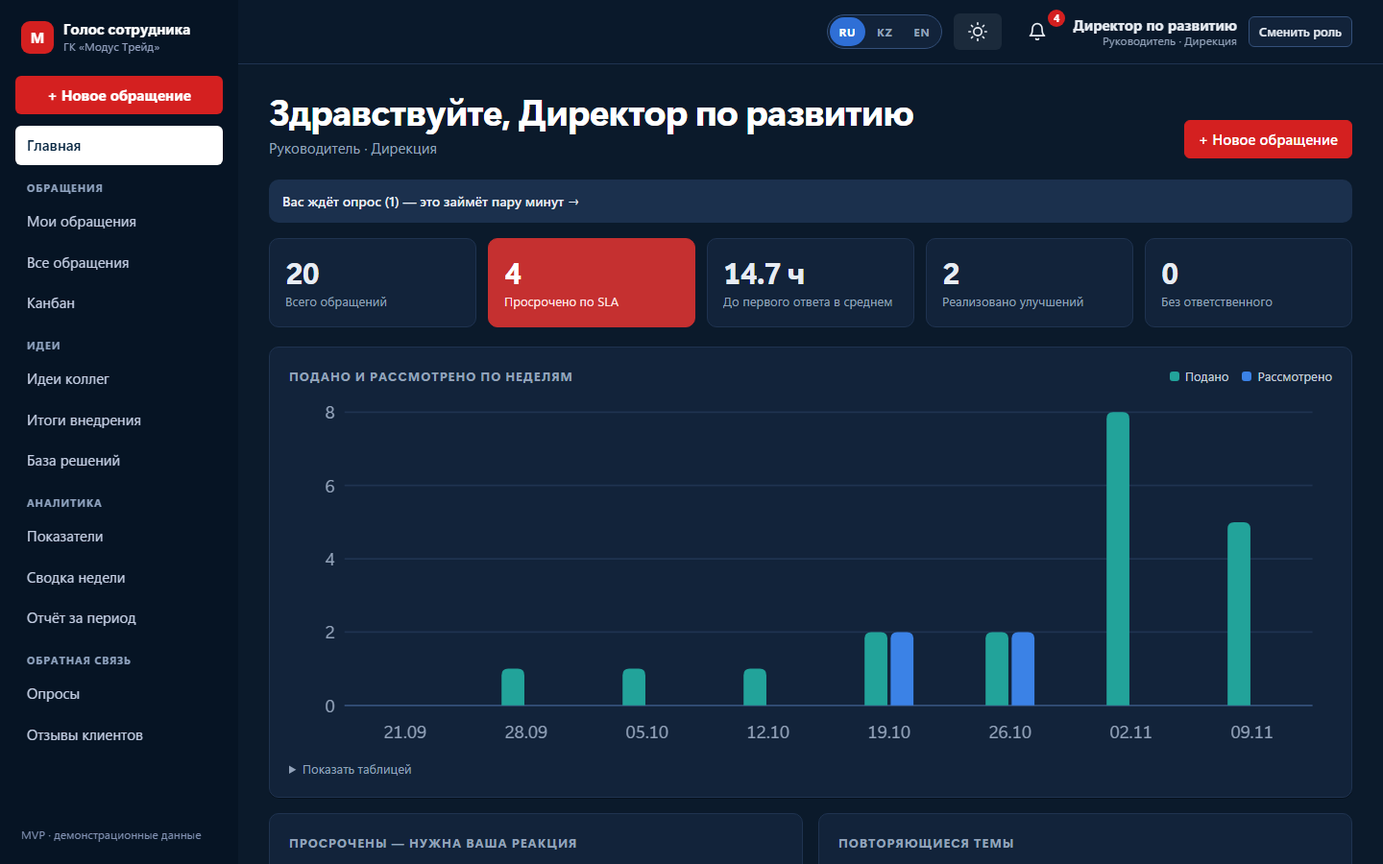
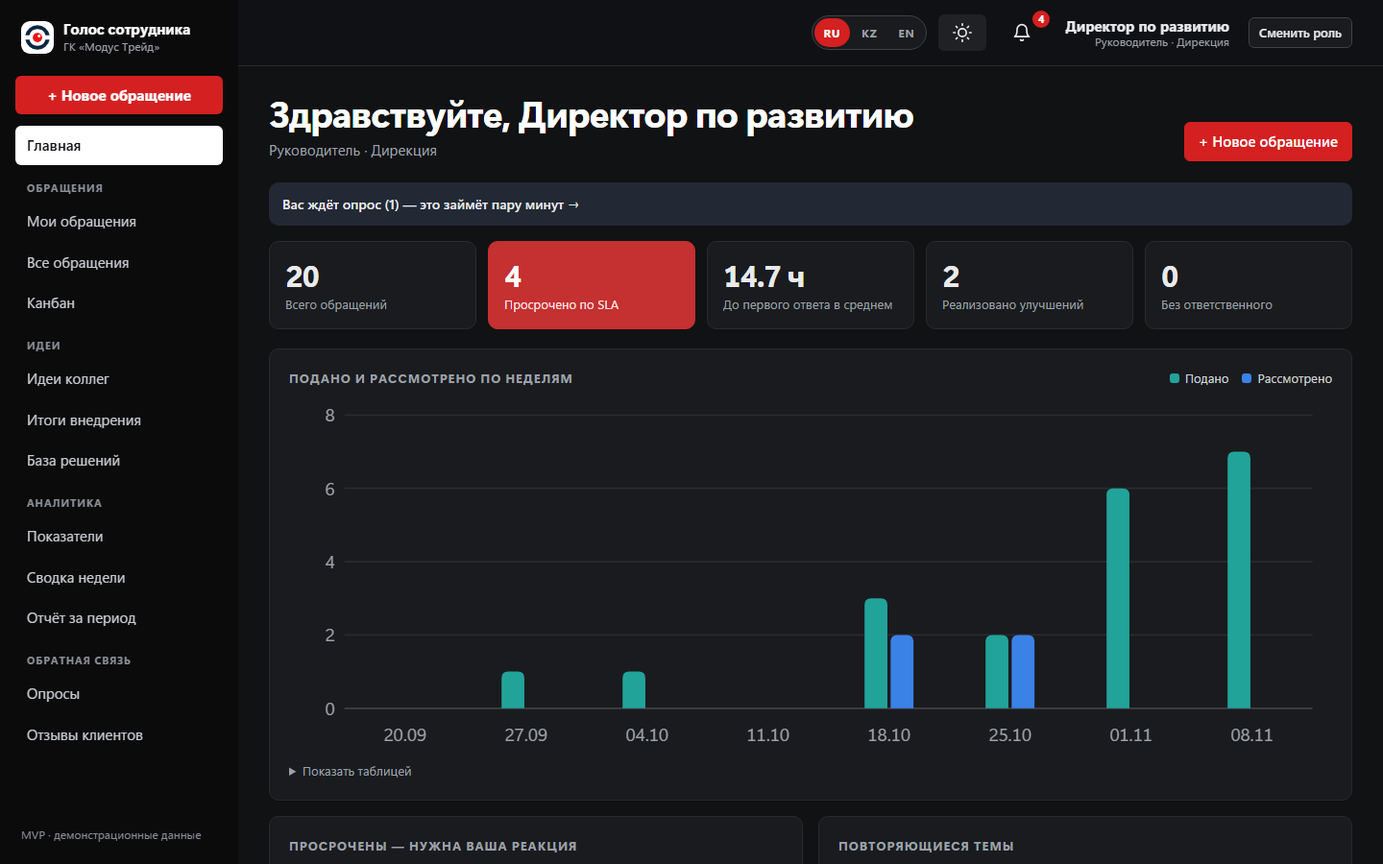
docs: README и скриншоты под итоговую версию
Все 30 снимков пересозданы: логотип, графитовая тёмная тема с красным акцентом; добавлены экран входа,
мой профиль, сроки и часовой пояс, хранение данных уволенных, тёмная тема входа и канбана.
Снимки отдельных блоков больше не перекрывает закреплённая шапка.
Текст README: вход через Битрикс24, раздел «Мой профиль», безопасность, нагрузочная проверка,
резервные копии, фирменный стиль, актуальные названия разделов, структура модулей.
scripts/make-icons.mjs рисует иконки из знака логотипа, а не прежний синий значок.

diff --git a/e2e/screenshots.spec.js b/e2e/screenshots.spec.js
@@ -2,6 +2,12 @@ import { test } from '@playwright/test';
 import { loginAs, openTicket } from './helpers.js';
 
 const shot = (page, name) => page.screenshot({ path: `docs/screenshots/${name}.png` });
+// Снимок отдельного блока: закреплённая шапка открепляется, иначе при прокрутке к блоку она закрывает его верх.
+async function elShot(locator, name) {
+  // Через свойство элемента: встроенный <style> запрещён политикой CSP.
+  await locator.page().evaluate(() => { const bar = document.querySelector('.topbar'); if (bar) bar.style.position = 'static'; });
+  await locator.screenshot({ path: `docs/screenshots/${name}.png` });
+}
 
 test('снимки экранов для README', async ({ page }) => {
   test.setTimeout(180_000);
@@ -66,13 +72,16 @@ test('снимки экранов для README', async ({ page }) => {
   await page.getByRole('button', { name: 'Переключить светлую и тёмную тему' }).click();
   await page.locator('figure.chart svg').waitFor();
   await shot(page, '09-home-dark');
+  await page.goto('/#/kanban');
+  await page.locator('.kb-card').first().waitFor();
+  await shot(page, '26-kanban-dark');
   await page.goto('/#/analytics');
   await page.locator('.kpi').first().waitFor();
   await shot(page, '10-analytics-dark');
   await page.getByRole('button', { name: 'Переключить светлую и тёмную тему' }).click();
 
   // Карта повторяющихся проблем и база решений (доработки по ТЗ 1.3 и 2.7).
-  await page.locator('.heatmap-card').screenshot({ path: 'docs/screenshots/18-problem-map.png' });
+  await elShot(page.locator('.heatmap-card'), '18-problem-map');
   await loginAs(page, 'Сотрудник офиса');
   await page.goto('/#/solutions');
   await page.locator('.solution').first().waitFor();
@@ -84,7 +93,7 @@ test('снимки экранов для README', async ({ page }) => {
   const integrations = page.locator('section.card', { hasText: 'Интеграции с Битрикс24 и 1С УТ' });
   await integrations.getByRole('button', { name: 'Загрузить оргструктуру' }).click();
   await integrations.getByRole('region', { name: 'Изменения из Битрикс24' }).waitFor();
-  await integrations.screenshot({ path: 'docs/screenshots/19-integrations.png' });
+  await elShot(integrations, '19-integrations');
   await integrations.getByRole('button', { name: 'Применить изменения' }).click();
   await integrations.getByRole('button', { name: 'Загрузить контрагентов' }).click();
   await page.locator('.toast-success').last().waitFor();
@@ -102,7 +111,7 @@ test('снимки экранов для README', async ({ page }) => {
   await page.locator('.more-actions').evaluate((d) => { d.open = true; });
   const taskPanel = page.locator('.more-actions .stack', { hasText: 'Статус в Битрикс24' }).last();
   await taskPanel.scrollIntoViewIfNeeded();
-  await page.locator('.more-actions').screenshot({ path: 'docs/screenshots/20-b24-task.png' });
+  await elShot(page.locator('.more-actions'), '20-b24-task');
 
   // Вход через Битрикс24: страница входа демо-портала.
   await page.evaluate(() => fetch('/api/session', { method: 'DELETE' }));
@@ -124,7 +133,7 @@ test('снимки экранов для README', async ({ page }) => {
   await integrations.getByRole('button', { name: 'Загрузить оргструктуру' }).click();
   const manual = integrations.locator('.sync-group', { hasText: 'Не связаны автоматически' });
   await manual.waitFor();
-  await manual.screenshot({ path: 'docs/screenshots/23-manual-link.png' });
+  await elShot(manual, '23-manual-link');
 
   // Производственный календарь на год из источника.
   const calendar = page.locator('section.card').filter({ has: page.getByRole('heading', { name: 'Производственный календарь', exact: true }) });
@@ -132,10 +141,31 @@ test('снимки экранов для README', async ({ page }) => {
   await calendar.getByRole('button', { name: 'Загрузить производственный календарь' }).click();
   await page.locator('.toast-success').last().waitFor();
   await page.locator('.toast').evaluateAll((toasts) => toasts.forEach((t) => t.remove()));
-  await calendar.screenshot({ path: 'docs/screenshots/24-calendar.png' });
+  await elShot(calendar, '24-calendar');
 
   // Письма-уведомления: демо-почта с письмами, отправленными по SMTP.
   await page.goto('/demo-portal/mail/');
   await page.locator('.demo-letter').first().waitFor();
   await shot(page, '25-mail');
+
+  // Сроки: SLA, рабочие часы и часовой пояс компании и подразделений; хранение данных уволенных.
+  await page.goto('/#/admin');
+  const sla = page.locator('section.card').filter({ has: page.getByRole('heading', { name: 'Сроки рассмотрения (SLA)' }) });
+  await elShot(sla, '27-sla-timezone');
+  const retention = page.locator('section.card').filter({ has: page.getByRole('heading', { name: 'Хранение персональных данных' }) });
+  await elShot(retention, '28-retention');
+
+  // Мой профиль: контакты, письма и push-уведомления на этом устройстве.
+  await loginAs(page, 'Сотрудник офиса');
+  await page.goto('/#/profile');
+  await page.getByRole('heading', { name: 'Мой профиль' }).waitFor();
+  await shot(page, '29-profile');
+
+  // Экран входа в тёмной теме.
+  await page.evaluate(() => fetch('/api/session', { method: 'DELETE' }));
+  await page.goto('/');
+  await page.locator('.role-card').first().waitFor();
+  await page.getByRole('button', { name: 'Переключить светлую и тёмную тему' }).click();
+  await shot(page, '30-login-dark');
+  await page.getByRole('button', { name: 'Переключить светлую и тёмную тему' }).click();
 });

diff --git a/README.md b/README.md
@@ -7,9 +7,13 @@
 - Сценарий защиты на 5 минут: [docs/DEMO.md](docs/DEMO.md)
 - Проверка с телефона: запустите `npm start`, подключите телефон к той же сети Wi-Fi и откройте `http://<IP компьютера>:3000` (Windows может спросить разрешение на доступ Node.js к сети).
 
-| Подача с подсказкой похожих | Карточка обращения |
+| Экран входа | Подача с подсказкой похожих |
 |---|---|
-| ![Новое обращение](docs/screenshots/02-new-ticket.png) | ![Карточка](docs/screenshots/03-ticket.png) |
+| ![Экран входа](docs/screenshots/01-login.png) | ![Новое обращение](docs/screenshots/02-new-ticket.png) |
+
+| Карточка обращения | Итоги внедрения |
+|---|---|
+| ![Карточка](docs/screenshots/03-ticket.png) | ![Итоги внедрения](docs/screenshots/06-board.png) |
 
 | Реестр | Аналитика |
 |---|---|
@@ -27,6 +31,10 @@
 |---|---|
 | ![Опрос](docs/screenshots/13-survey-results.png) | ![Форма клиента](docs/screenshots/15-client-form.png) |
 
+| Отзывы клиентов и NPS | Пользователи и роли |
+|---|---|
+| ![Отзывы клиентов](docs/screenshots/14-clients.png) | ![Пользователи и роли](docs/screenshots/16-admin-users.png) |
+
 | База решений | Карта повторяющихся проблем |
 |---|---|
 | ![База решений](docs/screenshots/17-solutions.png) | ![Карта проблем](docs/screenshots/18-problem-map.png) |
@@ -43,13 +51,27 @@
 |---|---|
 | ![Демо-почта](docs/screenshots/25-mail.png) | ![Производственный календарь](docs/screenshots/24-calendar.png) |
 
+| Мой профиль: контакты, письма, push | Сроки, рабочие часы и часовой пояс |
+|---|---|
+| ![Мой профиль](docs/screenshots/29-profile.png) | ![Сроки и часовой пояс](docs/screenshots/27-sla-timezone.png) |
+
+Хранение персональных данных уволенных:
+
+![Хранение персональных данных](docs/screenshots/28-retention.png)
+
 Ручное связывание с порталом — тех, кого система не связала по ФИО:
 
 ![Ручное связывание](docs/screenshots/23-manual-link.png)
 
-Тёмная тема:
+Тёмная тема — графитовые тона и фирменный красный:
 
-![Тёмная тема](docs/screenshots/09-home-dark.png)
+| Главная руководителя | Канбан |
+|---|---|
+| ![Тёмная тема: главная](docs/screenshots/09-home-dark.png) | ![Тёмная тема: канбан](docs/screenshots/26-kanban-dark.png) |
+
+| Экран входа | Показатели |
+|---|---|
+| ![Тёмная тема: вход](docs/screenshots/30-login-dark.png) | ![Тёмная тема: показатели](docs/screenshots/10-analytics-dark.png) |
 
 ## Экраны и переходы
 
@@ -57,7 +79,7 @@
 
 ```mermaid
 flowchart LR
-  login["Вход: роль → сотрудник"] --> home["Главная по роли"]
+  login["Вход: Битрикс24<br/>или роль → сотрудник (демо)"] --> home["Главная по роли"]
   home --> new["Новое обращение<br/>подсказка похожих"]
   new -- "«У меня тоже» / голос" --> ticket
   new -- "Отправить" --> ticket["Карточка обращения<br/>статус, срок, история"]
@@ -80,7 +102,8 @@ flowchart LR
 | Идеи коллег, Итоги внедрения, База решений | всем | опубликованные идеи с голосованием, реализованные улучшения, решения и отказы |
 | Показатели, Сводка недели, Отчёт за период | руководителю и администратору | просрочки, карта проблем, клиенты → отфильтрованный реестр |
 | Опросы, Отзывы клиентов | опросы — всем, отзывы — руководителю | ответы и сводные результаты |
-| Настройки | администратору | категории и маршрутизация, пользователи, сроки, интеграции, журнал |
+| Настройки | администратору | категории и маршрутизация, пользователи, сроки и часовой пояс, производственный календарь, хранение персональных данных, интеграции, журнал |
+| Мой профиль (щелчок по своему имени в шапке) | всем | рабочие контакты, письма и push-уведомления на этом устройстве |
 
 ## Запуск
 
@@ -90,7 +113,7 @@ flowchart LR
 npm start
 ```
 
-Откройте http://localhost:3000 и выберите роль на экране входа.
+Откройте http://localhost:3000 и выберите роль на экране входа (или «Войти через Битрикс24» — вход через встроенный демо-портал после загрузки оргструктуры в «Настройках»).
 
 Внешние сервисы, интернет и ключи доступа для запуска не нужны: база и файлы хранятся локально. В демо-режиме интеграции с Битрикс24 и 1С УТ работают со встроенным демо-порталом — настоящими HTTP-запросами в форматах REST Битрикс24 и OData 1С. Подключение к настоящему порталу и базе 1С — переменными окружения (см. ниже).
 
@@ -99,11 +122,12 @@ npm start
 | `npm start` | запуск на порту 3000 (`PORT=8080 npm start` — другой порт) |
 | `npm run reset` | удалить базу и вложения, заново загрузить демо-данные и запустить (то же самое — кнопка «Сбросить демо-данные» в «Настройках» администратора) |
 | `node server.js` | запуск без демо-режима: кнопка сброса данных отключена. `npm start` и `npm run reset` включают демо-режим (`DEMO_MODE=1`), Docker-образ — нет |
-| `npm test` | 261 серверных тестов с отчётом о покрытии |
+| `npm test` | 261 серверный тест с отчётом о покрытии (строки — около 98 %) |
 | `npm run loadtest` | нагрузочная проверка на временной базе: 10 000 обращений и 1 000 сотрудников (другие объёмы — `npm run loadtest -- 30000 3000`); печатает время каждого экрана и фоновой задачи, ничего не отправляет наружу |
 | `npm run backup` | резервная копия базы и вложений в `data/backups` (сервер можно не останавливать) |
 | `npm install`, затем `npx playwright install chromium`, затем `npm run test:e2e` | 78 сквозных тестов интерфейса (Playwright) на отдельной чистой базе: сценарии, эмуляция телефона Android, автоматическая проверка доступности (axe-core, WCAG 2.1 AA) в светлой и тёмной теме |
 | `npm run screenshots` | пересоздать снимки экранов в `docs/screenshots/` |
+| `node scripts/make-icons.mjs` | пересоздать иконки приложения для телефона (`public/icons/`) из знака логотипа |
 | `npm run voice`, затем `npm run video`, затем `npm run video:voice` | пересобрать видео защиты с озвучкой. `voice` — нейросетевой голос Microsoft (нужны `python -m pip install edge-tts` и интернет; текст реплик из `e2e/demo-voice.json` отправляется в облачный сервис синтеза), без интернета — `npm run voice:offline` (встроенный голос Windows, звучит заметно хуже). `video` записывает сценарий в темпе реплик, `video:voice` накладывает звук → `docs/demo/demo.webm` |
 
 Подключение к системам компании (необязательно; без переменных в демо-режиме работает встроенный демо-портал, вне демо-режима — только журнал):
@@ -147,12 +171,12 @@ docker build -t feedback-mvp . && docker run -p 3000:3000 -v feedback-data:/data
 
 | # | Сценарий | Как показать |
 |---|---|---|
-| 1 | Создать обращение, выбрать тип и категорию, приложить файл | Войти как **Сотрудник офиса** → «Новое обращение». При вводе текста справа появляются похожие обращения (например, напишите «не найти актуальную инструкцию в папках» — найдётся A-019) с кнопкой «Поддержать» |
+| 1 | Создать обращение, выбрать тип и категорию, приложить файл | Войти как **Сотрудник офиса** → «Новое обращение». При вводе текста справа появляются похожие обращения (например, напишите «не найти актуальную инструкцию в папках» — найдётся A-019) с кнопкой «У меня тоже» |
 | 2 | Назначить ответственного по категории; альтернатива при отсутствии | Ответственный назначается автоматически. **Администратор системы** → «Настройки» → снять «на месте» у «Администратор документов» и создать обращение в «Хранение документов» — назначится резервный («Ответственный за процессы»). Если нет и резервного (категория «Интеграции и IT» + отключить IT-специалиста) — руководитель-диспетчер |
 | 3 | Изменить статус, запросить уточнение, история комментариев | Войти как ответственный (например, **Руководитель закупок**, A-001) → «Рассмотрение» → «Ожидает уточнения» с вопросом. Автор отвечает комментарием — обращение само возвращается «На рассмотрение». Есть внутренние заметки, невидимые автору (пример — A-003) |
 | 4 | Показать автору состояние и итог, в т. ч. мотивированный отказ | **Сотрудник офиса** → A-017 «Отклонено» с причиной. Итоговые статусы нельзя поставить без зафиксированного результата |
 | 5 | Фильтры по подразделению, категории, статусу, сроку; просроченные | **Директор по развитию** → «Все обращения» → фильтры и «Только просроченные» (A-003, A-007, A-011, A-014). Фильтры сохраняются в адресе страницы; «Экспорт в Excel» выгружает текущую выборку |
-| 6 | Сводка: по типам, доля закрытых, среднее время первого ответа | **Директор по развитию** → «Аналитика»: KPI из ТЗ, просроченные, повторяющиеся темы, возможные дубликаты |
+| 6 | Сводка: по типам, доля закрытых, среднее время первого ответа | **Директор по развитию** → «Показатели»: KPI из ТЗ с целями, просроченные, повторяющиеся темы, возможные дубликаты, карта проблем по отделам |
 
 Дополнительно: «Итоги внедрения» (доступна всем) — реализованные предложения без имён авторов и открытые темы для поддержки; колокольчик — уведомления о назначении, смене статуса и комментариях.
 
@@ -188,7 +212,7 @@ docker build -t feedback-mvp . && docker run -p 3000:3000 -v feedback-data:/data
 - Шаблоны ответов, приглашение коллеги в обсуждение, подписка на обращение.
 - Черновик нового обращения сохраняется в браузере и восстанавливается.
 - Сроки SLA настраиваются администратором; праздничные дни 2026–2027 не считаются; о неустранённой просрочке напоминают каждые 2 рабочих дня.
-- Светлая и тёмная тема.
+- Светлая и тёмная тема в цветах «Модус Трейд»: знак логотипа в меню и иконке приложения, полный логотип на экране входа; тёмная тема — графитовые тона с фирменным красным акцентом.
 - Идеи коллег: автор может открыть обращение для всех сотрудников — его читают, комментируют и поддерживают (для предложений включено по умолчанию).
 - Отчёт о внедрении («что сделано» и «эффект») у реализованных обращений; рейтинг авторов принятых идей и «автор месяца» на «Итогах внедрения».
 - Нагрузка по ответственным, среднее время в каждом статусе, отчёт за произвольный период с печатью в PDF.
@@ -201,6 +225,9 @@ docker build -t feedback-mvp . && docker run -p 3000:3000 -v feedback-data:/data
 - Подача с телефона: фото с камеры сжимается в браузере и прикрепляется к обращению.
 - Приложение на телефоне: систему можно установить на главный экран (иконка, запуск без адресной строки, ярлык «Новое обращение»); без связи интерфейс открывается из сохранённой копии, плашка «Нет связи» напоминает, что черновик сохраняется на устройстве. Данные обращений на устройстве не хранятся. Работает по HTTPS — в рабочей установке; при открытии по `http://<IP>` в локальной сети сайт работает как обычно, без установки.
 - Автопроверка на GitHub: каждый push в main и каждый PR прогоняет проверку переводов, серверные тесты и тесты интерфейса.
+- Безопасность проверена полным аудитом, замечания исправлены: вход без пароля только в демо, ключ из окна портала проверяется на принадлежность нашему приложению, анонимность защищена и от косвенных признаков (назначение, разрезы по отделам, имена файлов), сессии уволенных на портале закрываются ежедневной проверкой. Подробно — раздел «Безопасность» в [docs/ARCHITECTURE.md](docs/ARCHITECTURE.md).
+- Нагрузочная проверка `npm run loadtest`: на 10 000 обращений и 1 000 сотрудников экраны открываются до 70 мс, тяжёлая аналитика — около 0,2 с.
+- Резервные копии базы и вложений: `npm run backup` или автоматически раз в сутки (`BACKUP_DIR`), хранятся последние 14.
 - Автор может исправить своё обращение, пока оно «Новое» или «Ожидает уточнения»; правка видна в истории.
 - Фильтр реестра по дате подачи (вместе с фильтром просроченных).
 - Импорт пользователей из CSV (имя;роль;подразделение;почта;телефон — почта и телефон необязательны); при отключении обработчика его открытые обращения переходят следующему по правилу категории.
@@ -239,9 +266,16 @@ src/access.js        политика доступа по ролям
 src/routing.js       маршрутизация обращений
 src/tickets-*.js     чтение и изменение обращений, SLA
 src/escalation.js    эскалация просрочек SLA и напоминания
-src/settings.js      настраиваемые сроки SLA
+src/settings.js      сроки SLA, рабочие часы, часовые пояса, праздники
+src/auth.js          сессии: продление, срок жизни
+src/retention.js     обезличивание персональных данных уволенных
+src/contacts.js      рабочие контакты сотрудников
+src/backup.js        резервные копии базы и вложений
+src/solutions.js     база решений
+src/targets.js       цели показателей
 src/collab.js        наблюдатели, приглашения, задача Битрикс24
-src/integrations/    Битрикс24 и 1С УТ: настройки, HTTP-клиенты, доставка журнала, оргструктура, контрагенты, демо-портал
+src/integrations/    Битрикс24 (оргструктура, уведомления, задачи, вход), 1С УТ, почта SMTP, Web Push,
+                     производственный календарь, доставка журнала, ежедневная синхронизация, демо-портал и демо-почта
 src/home.js          данные главной страницы
 src/reports.js       отчёты о внедрении, рейтинг авторов
 src/templates.js     шаблоны ответов
@@ -256,7 +290,8 @@ src/export.js        экспорт реестра в CSV
 src/analytics.js     показатели и повторяющиеся темы
 src/similarity.js    поиск похожих обращений
 src/seed*.js         демо-данные из датасета
-public/              интерфейс (ES-модули без сборки)
+public/              интерфейс (ES-модули без сборки), сервис-воркер, иконки
+scripts/             резервная копия, нагрузочная проверка, проверка переводов, иконки, озвучка видео
 test/                серверные тесты node:test
 e2e/                 сквозные тесты интерфейса (Playwright)
 Dockerfile           образ для запуска в контейнере
